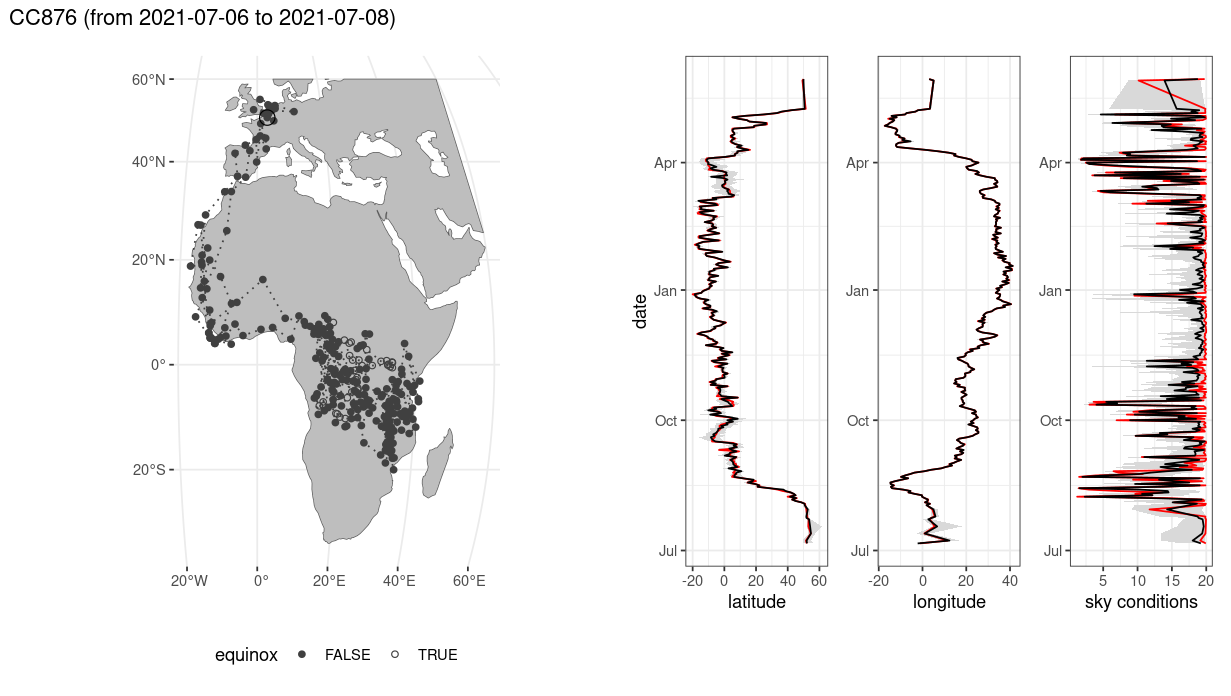
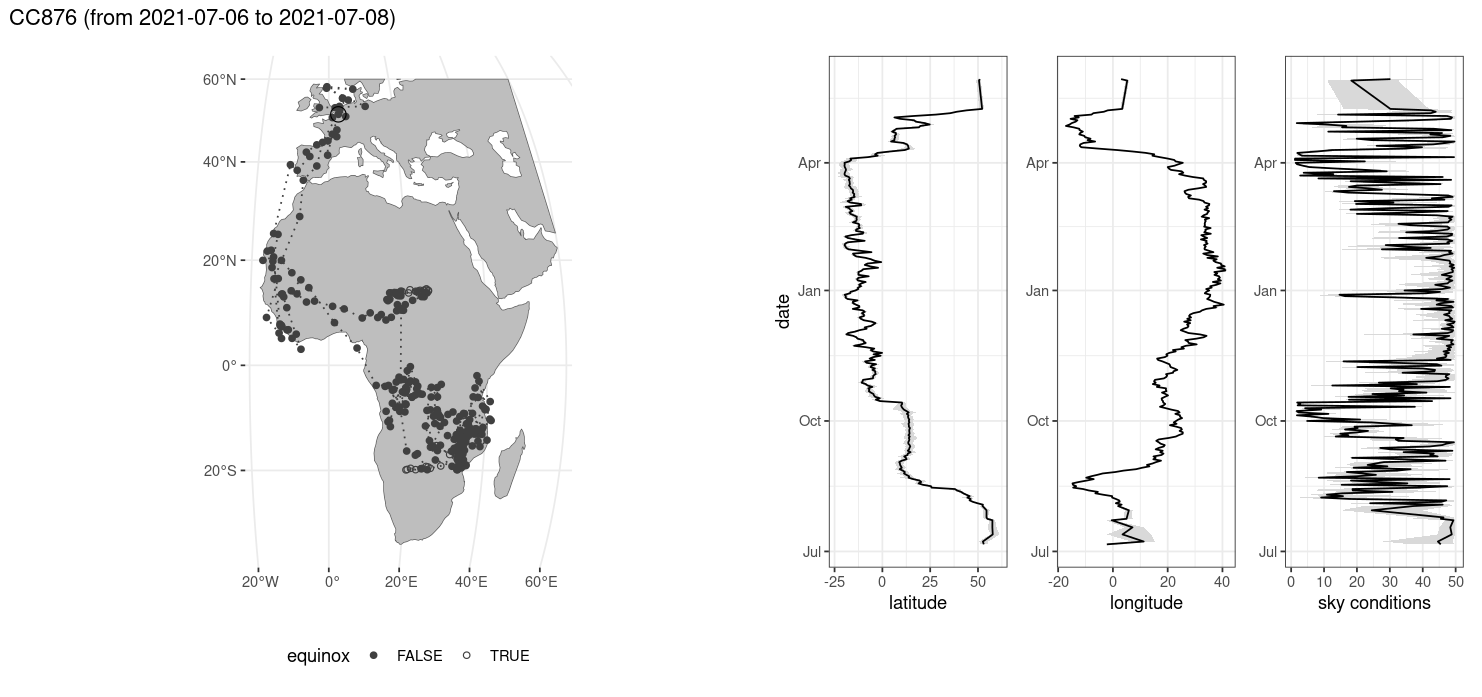
Deploying to gh-pages from @ bluegreen-labs/skytrackr@3d4f75e2bc88eb74b3b390b93aa30bc502bdb29e 🚀

diff --git a/index.html b/index.html
@@ -169,11 +169,11 @@
 <span><span class="va">mask</span> <span class="op">&lt;-</span> <span class="fu"><a href="reference/stk_mask.html">stk_mask</a></span><span class="op">(</span></span>
 <span>  bbox  <span class="op">=</span>  <span class="fu"><a href="https://rdrr.io/r/base/c.html" class="external-link">c</a></span><span class="op">(</span><span class="op">-</span><span class="fl">20</span>, <span class="op">-</span><span class="fl">40</span>, <span class="fl">60</span>, <span class="fl">60</span><span class="op">)</span>, <span class="co">#xmin, ymin, xmax, ymax</span></span>
 <span>  buffer <span class="op">=</span> <span class="fl">150</span>, <span class="co"># in km</span></span>
-<span>  resolution <span class="op">=</span> <span class="fl">0.5</span></span>
+<span>  resolution <span class="op">=</span> <span class="fl">0.5</span> <span class="co"># map grid in degrees</span></span>
 <span><span class="op">)</span></span>
 <span></span>
-<span><span class="co"># define a step selection distribution</span></span>
-<span><span class="va">ssf</span> <span class="op">&lt;-</span> <span class="kw">function</span><span class="op">(</span><span class="va">x</span>, <span class="va">shape</span> <span class="op">=</span> <span class="fl">1.02</span>, <span class="va">scale</span> <span class="op">=</span> <span class="fl">250</span>, <span class="va">tolerance</span> <span class="op">=</span> <span class="fl">1500</span><span class="op">)</span><span class="op">{</span></span>
+<span><span class="co"># define a step selection distribution/function</span></span>
+<span><span class="va">ssf</span> <span class="op">&lt;-</span> <span class="kw">function</span><span class="op">(</span><span class="va">x</span>, <span class="va">shape</span> <span class="op">=</span> <span class="fl">0.9</span>, <span class="va">scale</span> <span class="op">=</span> <span class="fl">100</span>, <span class="va">tolerance</span> <span class="op">=</span> <span class="fl">1500</span><span class="op">)</span><span class="op">{</span></span>
 <span>  <span class="va">norm</span> <span class="op">&lt;-</span> <span class="fu"><a href="https://rdrr.io/r/base/sum.html" class="external-link">sum</a></span><span class="op">(</span><span class="fu">stats</span><span class="fu">::</span><span class="fu"><a href="https://rdrr.io/r/stats/GammaDist.html" class="external-link">dgamma</a></span><span class="op">(</span><span class="fl">1</span><span class="op">:</span><span class="va">tolerance</span>, shape <span class="op">=</span> <span class="va">shape</span>, scale <span class="op">=</span> <span class="va">scale</span><span class="op">)</span><span class="op">)</span></span>
 <span>  <span class="va">prob</span> <span class="op">&lt;-</span> <span class="fu">stats</span><span class="fu">::</span><span class="fu"><a href="https://rdrr.io/r/stats/GammaDist.html" class="external-link">dgamma</a></span><span class="op">(</span><span class="va">x</span>, shape <span class="op">=</span> <span class="va">shape</span>, scale <span class="op">=</span> <span class="va">scale</span><span class="op">)</span> <span class="op">/</span> <span class="va">norm</span></span>
 <span><span class="op">}</span></span>
@@ -182,13 +182,13 @@
 <span>    <span class="fu"><a href="reference/skytrackr.html">skytrackr</a></span><span class="op">(</span></span>
 <span>      start_location <span class="op">=</span> <span class="fu"><a href="https://rdrr.io/r/base/c.html" class="external-link">c</a></span><span class="op">(</span><span class="fl">51.08</span>, <span class="fl">3.73</span><span class="op">)</span>,</span>
 <span>      tolerance <span class="op">=</span> <span class="fl">1500</span>, <span class="co"># in km</span></span>
-<span>      scale <span class="op">=</span> <span class="fu"><a href="https://rdrr.io/r/base/c.html" class="external-link">c</a></span><span class="op">(</span><span class="fl">1</span>,<span class="fl">10</span><span class="op">)</span>,</span>
-<span>      range <span class="op">=</span> <span class="fu"><a href="https://rdrr.io/r/base/c.html" class="external-link">c</a></span><span class="op">(</span><span class="fl">1.5</span>, <span class="fl">140</span><span class="op">)</span>,</span>
+<span>      scale <span class="op">=</span> <span class="fu"><a href="https://rdrr.io/r/base/Log.html" class="external-link">log</a></span><span class="op">(</span><span class="fu"><a href="https://rdrr.io/r/base/c.html" class="external-link">c</a></span><span class="op">(</span><span class="fl">0.00001</span>,<span class="fl">50</span><span class="op">)</span><span class="op">)</span>, <span class="co"># default range</span></span>
+<span>      range <span class="op">=</span> <span class="fu"><a href="https://rdrr.io/r/base/c.html" class="external-link">c</a></span><span class="op">(</span><span class="fl">0.09</span>, <span class="fl">148</span><span class="op">)</span>, <span class="co"># default range</span></span>
 <span>      control <span class="op">=</span> <span class="fu"><a href="https://rdrr.io/r/base/list.html" class="external-link">list</a></span><span class="op">(</span></span>
 <span>        sampler <span class="op">=</span> <span class="st">'DEzs'</span>,</span>
 <span>        settings <span class="op">=</span> <span class="fu"><a href="https://rdrr.io/r/base/list.html" class="external-link">list</a></span><span class="op">(</span></span>
-<span>          burnin <span class="op">=</span> <span class="fl">500</span>,</span>
-<span>          iterations <span class="op">=</span> <span class="fl">1500</span>,</span>
+<span>          burnin <span class="op">=</span> <span class="fl">250</span>,</span>
+<span>          iterations <span class="op">=</span> <span class="fl">3000</span>,</span>
 <span>          message <span class="op">=</span> <span class="cn">FALSE</span></span>
 <span>        <span class="op">)</span></span>
 <span>      <span class="op">)</span>,</span>

diff --git a/reference/skytrackr.html b/reference/skytrackr.html
@@ -73,7 +73,7 @@ those modelled by the sky illuminance model of xyz.</p>
 <span>  tolerance <span class="op">=</span> <span class="fl">1500</span>,</span>
 <span>  range <span class="op">=</span> <span class="fu"><a href="https://rdrr.io/r/base/c.html" class="external-link">c</a></span><span class="op">(</span><span class="fl">0.09</span>, <span class="fl">148</span><span class="op">)</span>,</span>
 <span>  scale <span class="op">=</span> <span class="fu"><a href="https://rdrr.io/r/base/Log.html" class="external-link">log</a></span><span class="op">(</span><span class="fu"><a href="https://rdrr.io/r/base/c.html" class="external-link">c</a></span><span class="op">(</span><span class="fl">1e-05</span>, <span class="fl">50</span><span class="op">)</span><span class="op">)</span>,</span>
-<span>  control <span class="op">=</span> <span class="fu"><a href="https://rdrr.io/r/base/list.html" class="external-link">list</a></span><span class="op">(</span>sampler <span class="op">=</span> <span class="st">"DEzs"</span>, settings <span class="op">=</span> <span class="fu"><a href="https://rdrr.io/r/base/list.html" class="external-link">list</a></span><span class="op">(</span>burnin <span class="op">=</span> <span class="fl">500</span>, iterations <span class="op">=</span> <span class="fl">3000</span>,</span>
+<span>  control <span class="op">=</span> <span class="fu"><a href="https://rdrr.io/r/base/list.html" class="external-link">list</a></span><span class="op">(</span>sampler <span class="op">=</span> <span class="st">"DEzs"</span>, settings <span class="op">=</span> <span class="fu"><a href="https://rdrr.io/r/base/list.html" class="external-link">list</a></span><span class="op">(</span>burnin <span class="op">=</span> <span class="fl">250</span>, iterations <span class="op">=</span> <span class="fl">3000</span>,</span>
 <span>    message <span class="op">=</span> <span class="cn">FALSE</span><span class="op">)</span><span class="op">)</span>,</span>
 <span>  <span class="va">mask</span>,</span>
 <span>  <span class="va">step_selection</span>,</span>

diff --git a/reference/stk_map.html b/reference/stk_map.html
@@ -65,7 +65,7 @@
     </div>
 
     <div id="ref-usage">
-    <div class="sourceCode"><pre class="sourceCode r"><code><span><span class="fu">stk_map</span><span class="op">(</span><span class="va">df</span>, <span class="va">bbox</span>, <span class="va">start_location</span>, <span class="va">roi</span><span class="op">)</span></span></code></pre></div>
+    <div class="sourceCode"><pre class="sourceCode r"><code><span><span class="fu">stk_map</span><span class="op">(</span><span class="va">df</span>, <span class="va">bbox</span>, <span class="va">start_location</span>, <span class="va">roi</span>, dynamic <span class="op">=</span> <span class="cn">FALSE</span><span class="op">)</span></span></code></pre></div>
     </div>
 
     <div id="arguments">
@@ -87,7 +87,14 @@ the starting position of the track (optional)</p></dd>
 
 <dt id="arg-roi">roi<a class="anchor" aria-label="anchor" href="#arg-roi"></a></dt>
 <dd><p>region of interest under consideration, only used in
-dynamic plots during optimization (optional)</p></dd>
+plots during optimization (optional)</p></dd>
+
+
+<dt id="arg-dynamic">dynamic<a class="anchor" aria-label="anchor" href="#arg-dynamic"></a></dt>
+<dd><p>create a dynamic interactive graph rather than
+a static plot. Both the path as the locations are shown. The size
+of the points is proportional to the latitudinal uncertainty, while
+equinox windows are marked with red points.</p></dd>
 
 </dl></div>
     <div id="value">
